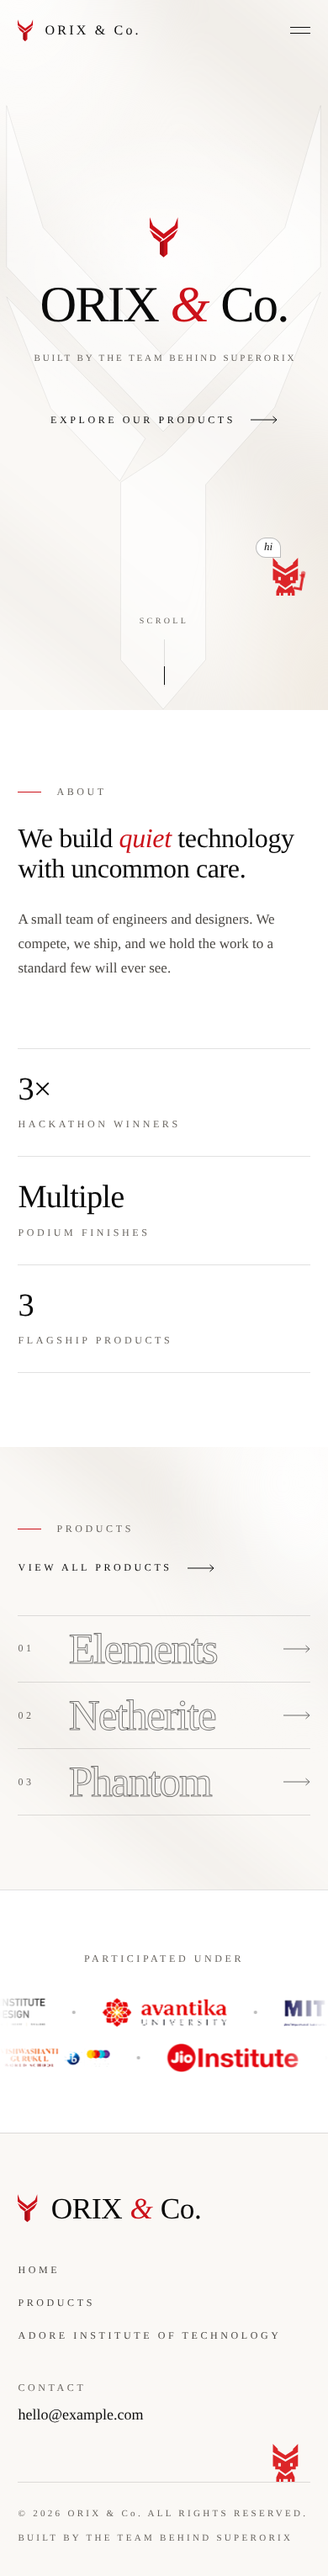
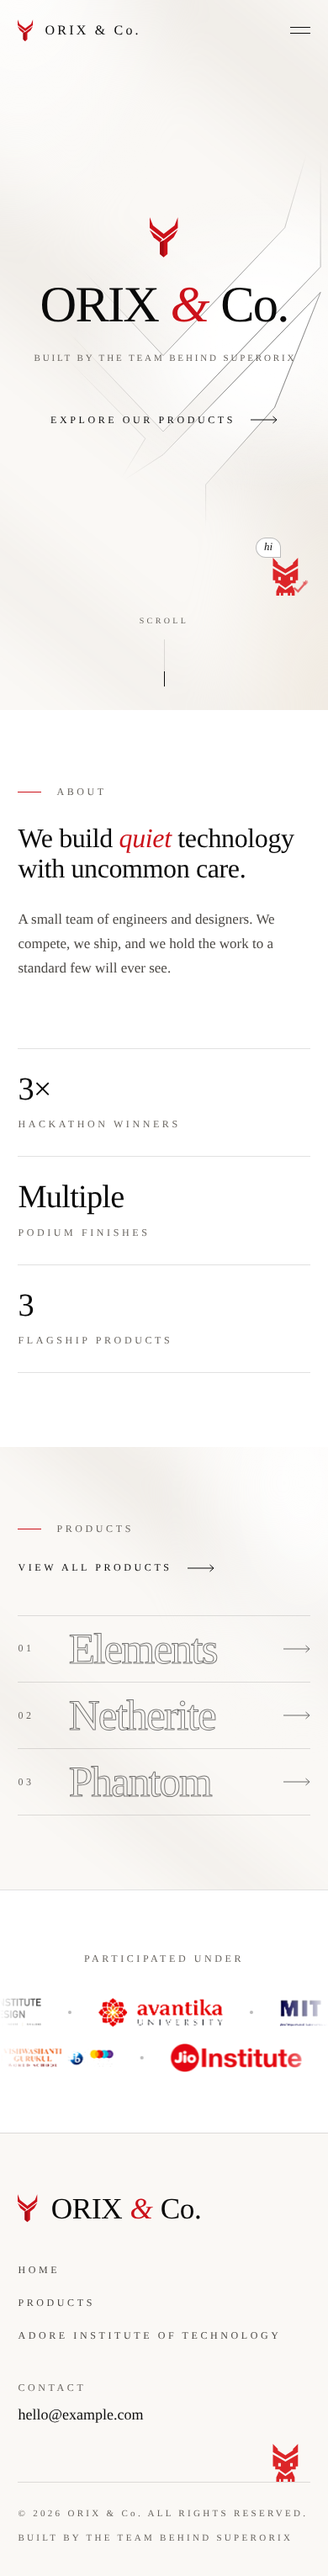
Hero watermark: liquid torch reveal
The stretched ORIX watermark is now hidden except where a soft light falls.
Three pools of light trail the cursor at different speeds and pulse gently,
so the lit area flows like liquid; with no cursor (or on touch) it drifts on
its own. Animation pauses when the hero is off screen; reduced motion shows
the static outline.

Claude-Session: https://claude.ai/code/session_01LLF2qoMhDfz1JwG89VCezi

diff --git a/style.css b/style.css
@@ -466,6 +466,23 @@ svg { display: block; }
   height: min(86%, 820px);
 }
 .hero__trace--wide path { stroke: rgba(10, 10, 10, 0.07); }
+
+/* Torch: the watermark only shows where the liquid light falls (set up by script). */
+.has-torch .hero__trace--torch {
+  -webkit-mask-image:
+    radial-gradient(circle var(--b0r, 0px) at var(--b0x, -999px) var(--b0y, -999px), #000 0%, rgba(0, 0, 0, 0.55) 45%, transparent 100%),
+    radial-gradient(circle var(--b1r, 0px) at var(--b1x, -999px) var(--b1y, -999px), #000 0%, rgba(0, 0, 0, 0.45) 45%, transparent 100%),
+    radial-gradient(circle var(--b2r, 0px) at var(--b2x, -999px) var(--b2y, -999px), #000 0%, rgba(0, 0, 0, 0.4) 45%, transparent 100%);
+  mask-image:
+    radial-gradient(circle var(--b0r, 0px) at var(--b0x, -999px) var(--b0y, -999px), #000 0%, rgba(0, 0, 0, 0.55) 45%, transparent 100%),
+    radial-gradient(circle var(--b1r, 0px) at var(--b1x, -999px) var(--b1y, -999px), #000 0%, rgba(0, 0, 0, 0.45) 45%, transparent 100%),
+    radial-gradient(circle var(--b2r, 0px) at var(--b2x, -999px) var(--b2y, -999px), #000 0%, rgba(0, 0, 0, 0.4) 45%, transparent 100%);
+  -webkit-mask-repeat: no-repeat;
+  mask-repeat: no-repeat;
+}
+/* lit lines are crisper and the fill glows a little */
+.has-torch .hero__trace--torch path { stroke: rgba(10, 10, 10, 0.3); }
+.has-torch .hero__trace--torch .trace-fill { fill: rgba(255, 255, 255, 0.9); }
 .hero--intro .hero__trace {
   left: auto;
   right: var(--gutter);
@@ -1456,6 +1473,23 @@ body[data-page="institute"] .button:hover .arrow { color: var(--red); }
   height: min(86%, 820px);
 }
 .hero__trace--wide path { stroke: rgba(10, 10, 10, 0.07); }
+
+/* Torch: the watermark only shows where the liquid light falls (set up by script). */
+.has-torch .hero__trace--torch {
+  -webkit-mask-image:
+    radial-gradient(circle var(--b0r, 0px) at var(--b0x, -999px) var(--b0y, -999px), #000 0%, rgba(0, 0, 0, 0.55) 45%, transparent 100%),
+    radial-gradient(circle var(--b1r, 0px) at var(--b1x, -999px) var(--b1y, -999px), #000 0%, rgba(0, 0, 0, 0.45) 45%, transparent 100%),
+    radial-gradient(circle var(--b2r, 0px) at var(--b2x, -999px) var(--b2y, -999px), #000 0%, rgba(0, 0, 0, 0.4) 45%, transparent 100%);
+  mask-image:
+    radial-gradient(circle var(--b0r, 0px) at var(--b0x, -999px) var(--b0y, -999px), #000 0%, rgba(0, 0, 0, 0.55) 45%, transparent 100%),
+    radial-gradient(circle var(--b1r, 0px) at var(--b1x, -999px) var(--b1y, -999px), #000 0%, rgba(0, 0, 0, 0.45) 45%, transparent 100%),
+    radial-gradient(circle var(--b2r, 0px) at var(--b2x, -999px) var(--b2y, -999px), #000 0%, rgba(0, 0, 0, 0.4) 45%, transparent 100%);
+  -webkit-mask-repeat: no-repeat;
+  mask-repeat: no-repeat;
+}
+/* lit lines are crisper and the fill glows a little */
+.has-torch .hero__trace--torch path { stroke: rgba(10, 10, 10, 0.3); }
+.has-torch .hero__trace--torch .trace-fill { fill: rgba(255, 255, 255, 0.9); }
 .hero--intro .hero__trace { opacity: 0.6; }
 }
 
@@ -1487,6 +1521,23 @@ body[data-page="institute"] .button:hover .arrow { color: var(--red); }
   height: min(86%, 820px);
 }
 .hero__trace--wide path { stroke: rgba(10, 10, 10, 0.07); }
+
+/* Torch: the watermark only shows where the liquid light falls (set up by script). */
+.has-torch .hero__trace--torch {
+  -webkit-mask-image:
+    radial-gradient(circle var(--b0r, 0px) at var(--b0x, -999px) var(--b0y, -999px), #000 0%, rgba(0, 0, 0, 0.55) 45%, transparent 100%),
+    radial-gradient(circle var(--b1r, 0px) at var(--b1x, -999px) var(--b1y, -999px), #000 0%, rgba(0, 0, 0, 0.45) 45%, transparent 100%),
+    radial-gradient(circle var(--b2r, 0px) at var(--b2x, -999px) var(--b2y, -999px), #000 0%, rgba(0, 0, 0, 0.4) 45%, transparent 100%);
+  mask-image:
+    radial-gradient(circle var(--b0r, 0px) at var(--b0x, -999px) var(--b0y, -999px), #000 0%, rgba(0, 0, 0, 0.55) 45%, transparent 100%),
+    radial-gradient(circle var(--b1r, 0px) at var(--b1x, -999px) var(--b1y, -999px), #000 0%, rgba(0, 0, 0, 0.45) 45%, transparent 100%),
+    radial-gradient(circle var(--b2r, 0px) at var(--b2x, -999px) var(--b2y, -999px), #000 0%, rgba(0, 0, 0, 0.4) 45%, transparent 100%);
+  -webkit-mask-repeat: no-repeat;
+  mask-repeat: no-repeat;
+}
+/* lit lines are crisper and the fill glows a little */
+.has-torch .hero__trace--torch path { stroke: rgba(10, 10, 10, 0.3); }
+.has-torch .hero__trace--torch .trace-fill { fill: rgba(255, 255, 255, 0.9); }
 .hero--intro .hero__trace { right: -60px; height: 58%; }
 }
 

diff --git a/script.js b/script.js
@@ -843,22 +843,72 @@ const CONFIG = {
       title.classList.add("is-split");
     }
 
+    initTorch();
+  }
+
+  /* ---------- hero: the watermark is lit by a liquid "torch" that trails the cursor ----------
+     Three soft pools of light follow the pointer at different speeds and gently pulse, so the lit
+     area stretches and wobbles like a fluid. With no pointer in the hero (or on touch), it drifts. */
+  function initTorch() {
     const hero = doc.querySelector("[data-spot]");
-    if (!hero || reduceMotion.matches) return;
+    const mark = doc.querySelector("[data-torch]");
+    if (!hero || !mark || reduceMotion.matches) return;
+    hero.classList.add("has-torch");
+
     const finePointer = window.matchMedia("(hover: hover) and (pointer: fine)");
-    let raf = 0, mx = 50, my = 40;
+    const blobs = [
+      { k: 0.16, r: 210, x: 0, y: 0 },
+      { k: 0.08, r: 150, x: 0, y: 0 },
+      { k: 0.045, r: 110, x: 0, y: 0 },
+    ];
+    let px = 0, py = 0, pointerIn = false, raf = 0, visible = true, started = false;
+    const t0 = performance.now();
+
     hero.addEventListener("pointermove", (e) => {
       if (!finePointer.matches) return;
-      const r = hero.getBoundingClientRect();
-      mx = ((e.clientX - r.left) / r.width) * 100;
-      my = ((e.clientY - r.top) / r.height) * 100;
-      if (!raf)
-        raf = requestAnimationFrame(() => {
-          hero.style.setProperty("--mx", mx.toFixed(1) + "%");
-          hero.style.setProperty("--my", my.toFixed(1) + "%");
-          raf = 0;
-        });
+      pointerIn = true;
+      px = e.clientX;
+      py = e.clientY;
     });
+    hero.addEventListener("pointerleave", () => (pointerIn = false));
+
+    const frame = (now) => {
+      const t = (now - t0) / 1000;
+      const mr = mark.getBoundingClientRect();
+      const hr = hero.getBoundingClientRect();
+      // target in the watermark's own coordinates
+      let tx, ty;
+      if (pointerIn) {
+        tx = px - mr.left;
+        ty = py - mr.top;
+      } else {
+        tx = mr.width * (0.5 + 0.32 * Math.sin(t * 0.21));
+        ty = mr.height * (0.45 + 0.26 * Math.sin(t * 0.33 + 1.2));
+      }
+      if (!started) {
+        blobs.forEach((b) => ((b.x = tx), (b.y = ty)));
+        started = true;
+      }
+      blobs.forEach((b, i) => {
+        b.x += (tx - b.x) * b.k;
+        b.y += (ty - b.y) * b.k;
+        const pulse = 1 + 0.12 * Math.sin(t * (1.1 + i * 0.37) + i * 2.1);
+        mark.style.setProperty(`--b${i}x`, b.x.toFixed(1) + "px");
+        mark.style.setProperty(`--b${i}y`, b.y.toFixed(1) + "px");
+        mark.style.setProperty(`--b${i}r`, (b.r * pulse).toFixed(1) + "px");
+      });
+      // the warm light follows the lead pool
+      const lead = blobs[0];
+      hero.style.setProperty("--mx", (((lead.x + mr.left - hr.left) / hr.width) * 100).toFixed(2) + "%");
+      hero.style.setProperty("--my", (((lead.y + mr.top - hr.top) / hr.height) * 100).toFixed(2) + "%");
+      raf = visible ? requestAnimationFrame(frame) : 0;
+    };
+
+    // only animate while the hero is on screen
+    new IntersectionObserver(([entry]) => {
+      visible = entry.isIntersecting;
+      if (visible && !raf) raf = requestAnimationFrame(frame);
+    }).observe(hero);
   }
 
   // Products are rendered by script, so jump to #product links after rendering.

diff --git a/index.html b/index.html
@@ -61,7 +61,7 @@
     <section class="hero hero--home" aria-labelledby="hero-title" data-spot>
       <div class="hero__light" data-parallax="0.18" aria-hidden="true"></div>
       <div class="hero__spot" aria-hidden="true"></div>
-      <svg class="hero__trace hero__trace--wide" viewBox="0 0 370 530" preserveAspectRatio="none" aria-hidden="true" focusable="false"><path class="trace-fill" d="M0 4 43 110 184 221 327 110 369 4V144L184 287 0 144Z"/><path d="M0 4 43 110 184 221 327 110 369 4V144L184 287 0 144Z"/><path class="trace-fill" d="M0 170 163 293 133 330 52 267Z"/><path d="M0 170 163 293 133 330 52 267Z"/><path class="trace-fill" d="M369 166 315 266 234 333V485L184 528 134 485V331L184 307Z"/><path d="M369 166 315 266 234 333V485L184 528 134 485V331L184 307Z"/></svg>
+      <svg class="hero__trace hero__trace--wide hero__trace--torch" viewBox="0 0 370 530" preserveAspectRatio="none" data-torch aria-hidden="true" focusable="false"><path class="trace-fill" d="M0 4 43 110 184 221 327 110 369 4V144L184 287 0 144Z"/><path d="M0 4 43 110 184 221 327 110 369 4V144L184 287 0 144Z"/><path class="trace-fill" d="M0 170 163 293 133 330 52 267Z"/><path d="M0 170 163 293 133 330 52 267Z"/><path class="trace-fill" d="M369 166 315 266 234 333V485L184 528 134 485V331L184 307Z"/><path d="M369 166 315 266 234 333V485L184 528 134 485V331L184 307Z"/></svg>
       <div class="hero__content">
         <div data-reveal><svg class="hero__mark" viewBox="0 0 370 530" aria-hidden="true" focusable="false"><path fill="#CC111A" d="M0 4 43 110 184 221 327 110 369 4V144L184 287 0 144Z"/><path fill="#CC111A" d="M0 170 163 293 133 330 52 267Z"/><path fill="#CC111A" d="M369 166 315 266 234 333V485L184 528 134 485V331L184 307Z"/><path fill="#A30C14" d="M134 331 184 307V528L134 485Z"/></svg></div>
         <h1 class="hero__title" id="hero-title" data-c="home.hero.title" data-amp data-split>ORIX <span class="amp">&amp;</span> Co.</h1>

diff --git a/README.md b/README.md
@@ -106,4 +106,4 @@ Once you know the domain, make `og:image` / `twitter:image` absolute URLs (for e
 
 - Semantic landmarks, a skip link, visible red focus outlines, labelled form fields with live error messages, and `aria-current` on the current nav link.
 - The mobile menu closes on Escape and makes the page behind it inert.
-- `prefers-reduced-motion` turns off the reveal animations, the parallax and the marquee scrolling (the partners are shown as a static centred list instead).
+- `prefers-reduced-motion` turns off the reveal animations, the parallax and the marquee scrolling (the partners are shown as a static centred list instead). With reduced motion, the hero watermark is shown as a static faint outline instead of the cursor-following light.
